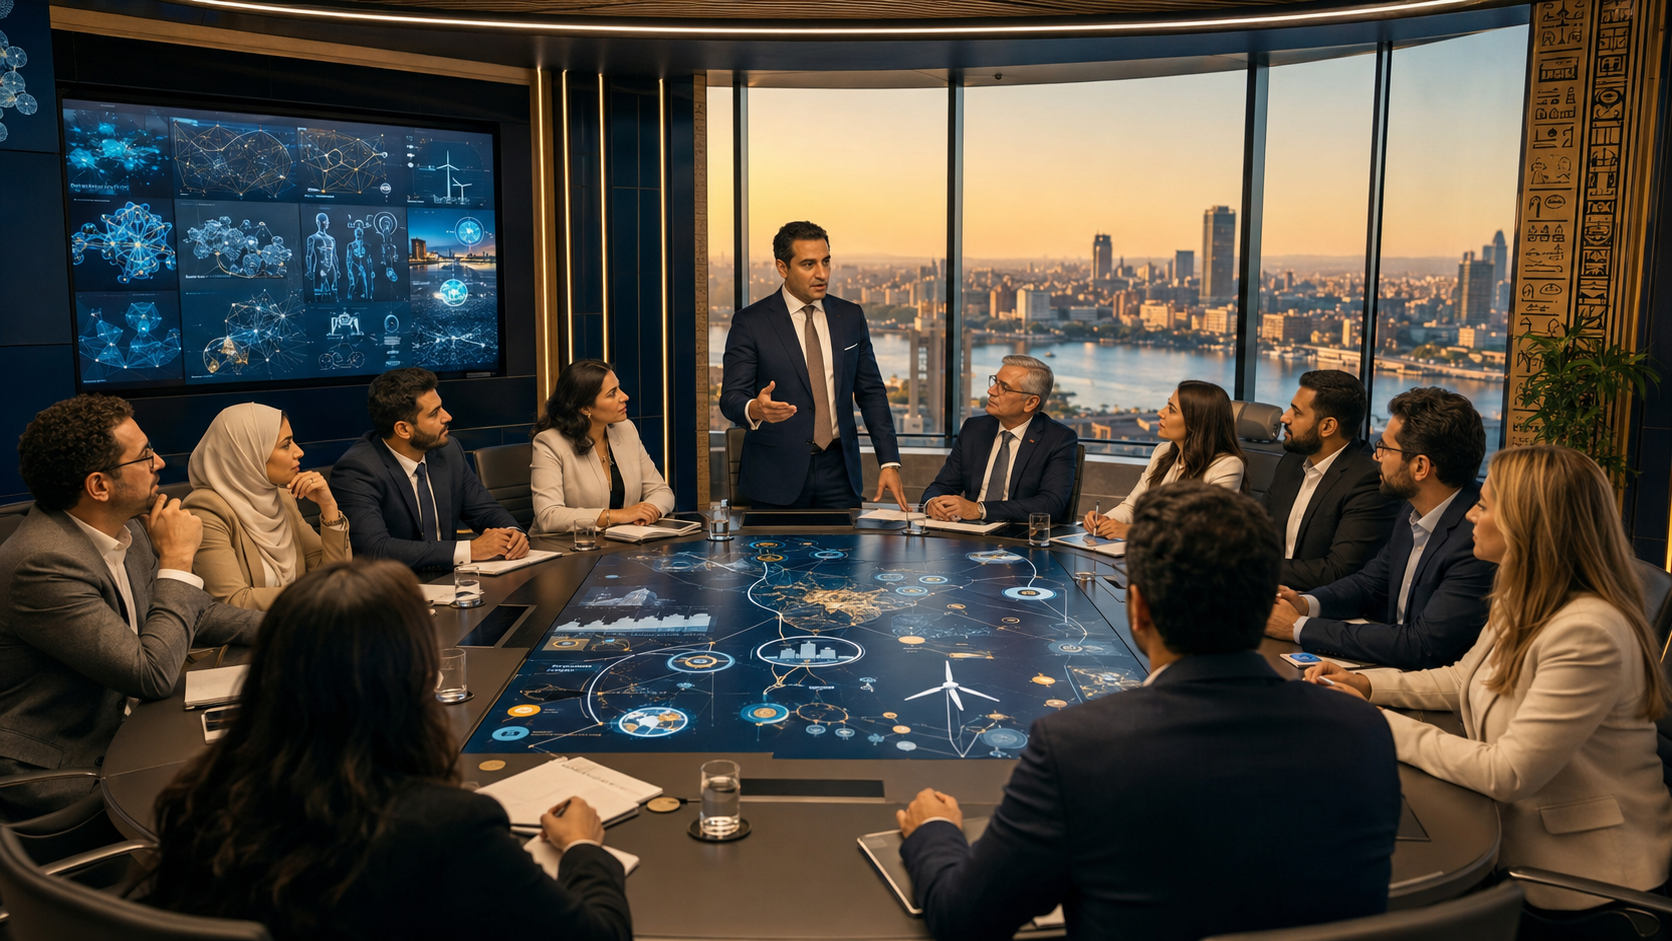
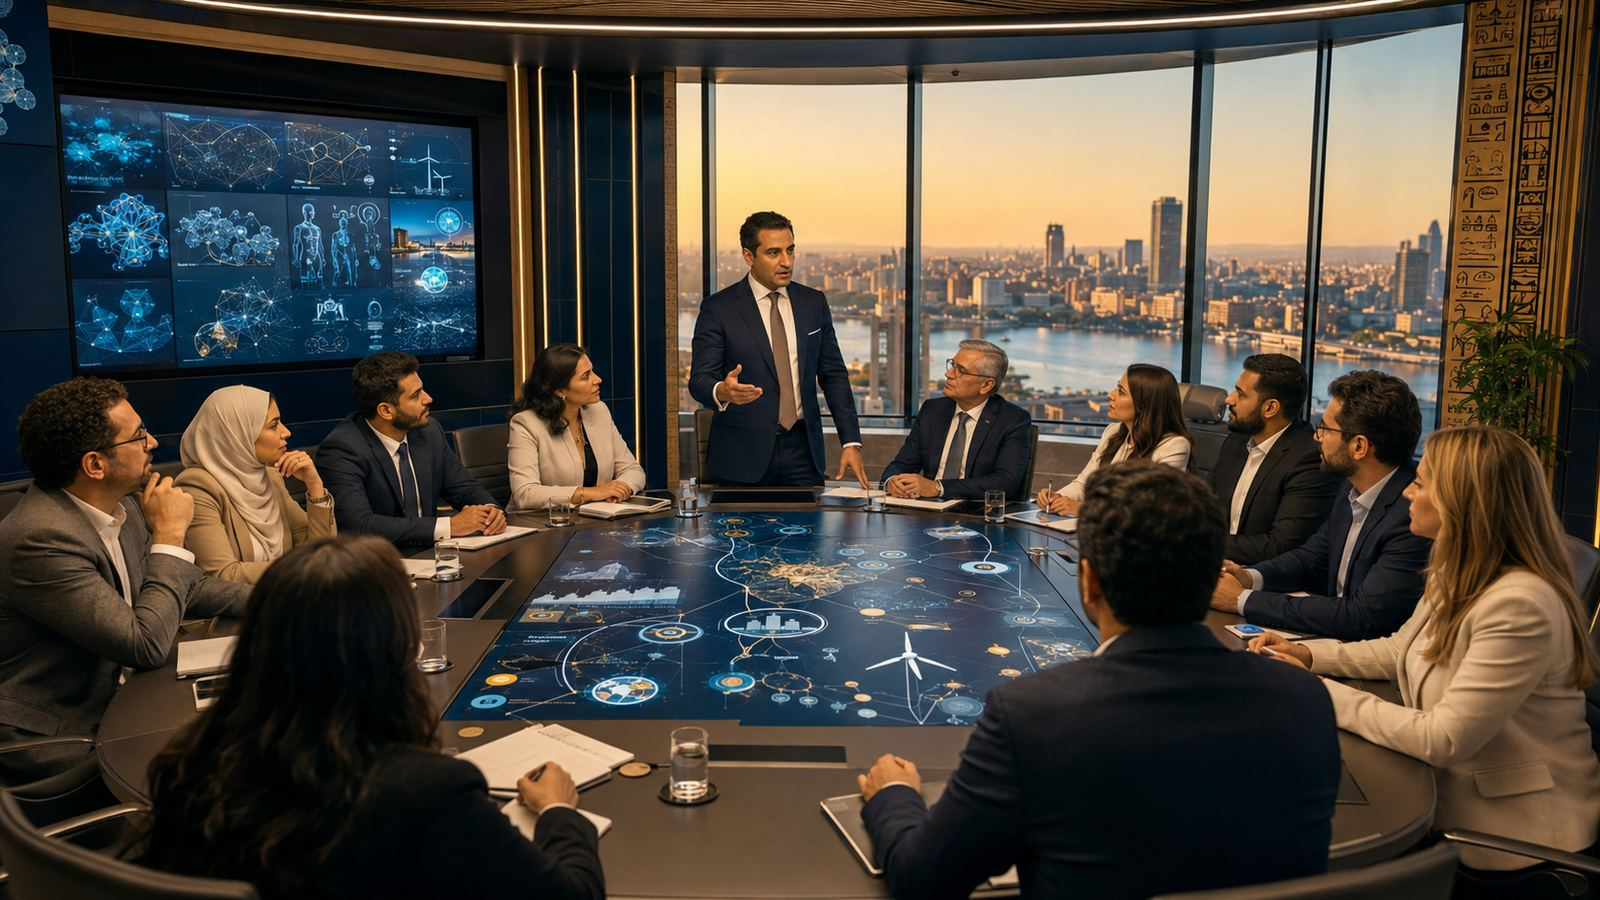
Populate the who-for mosaic's wide tile with a new boardroom photo
Replaced the empty placeholder in the #who-for mosaic's large
btile-wide tile with images/NewJTfoxxpageS1.jpg (a boardroom scene of
executives reviewing strategy data with the Cairo skyline behind them),
using the tile's existing object-fit/object-position rules so the image
displays without changing tile size or caption styling. Compressed the
source from 2.27MB (1672x941) down to ~224KB (1600x900) to match the
site's image-weight convention.

Retitled the tile's caption from "The New Generation Building Egypt's
Future" to "Where Egypt's Future Is Decided" rather than the originally
requested "Egypt's Future Investment Command Center" -- tile 1 in this
same mosaic already carries that exact title, and per user direction
this tile got a distinct title instead of duplicating it, while tile 1
was left unchanged.

diff --git a/jt-foxx-egypt.html b/jt-foxx-egypt.html
@@ -823,7 +823,7 @@
       <div class="btile s5"><div class="cap">The Capital-to-Industry Transformation</div></div>
       <div class="btile s4"><div class="cap">Egypt's Integrated Future-Industries Corridor</div></div>
       <div class="btile s4"><div class="cap">Egyptian Innovation Going Global</div></div>
-      <div class="btile s4 btile-wide"><div class="cap">The New Generation Building Egypt's Future</div></div>
+      <div class="btile s4 btile-wide"><img src="images/NewJTfoxxpageS1.jpg" alt="Executives and investors gathered around an interactive strategy table in a boardroom overlooking the Cairo skyline and the Nile" loading="lazy"><div class="cap">Where Egypt's Future Is Decided</div></div>
     </div>
   </div>
 </section>
